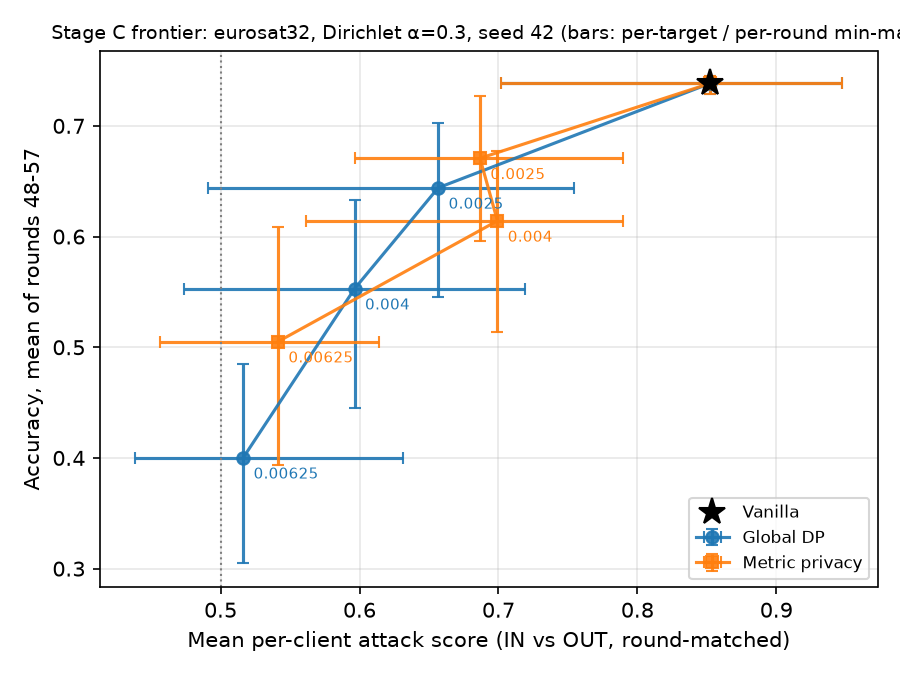
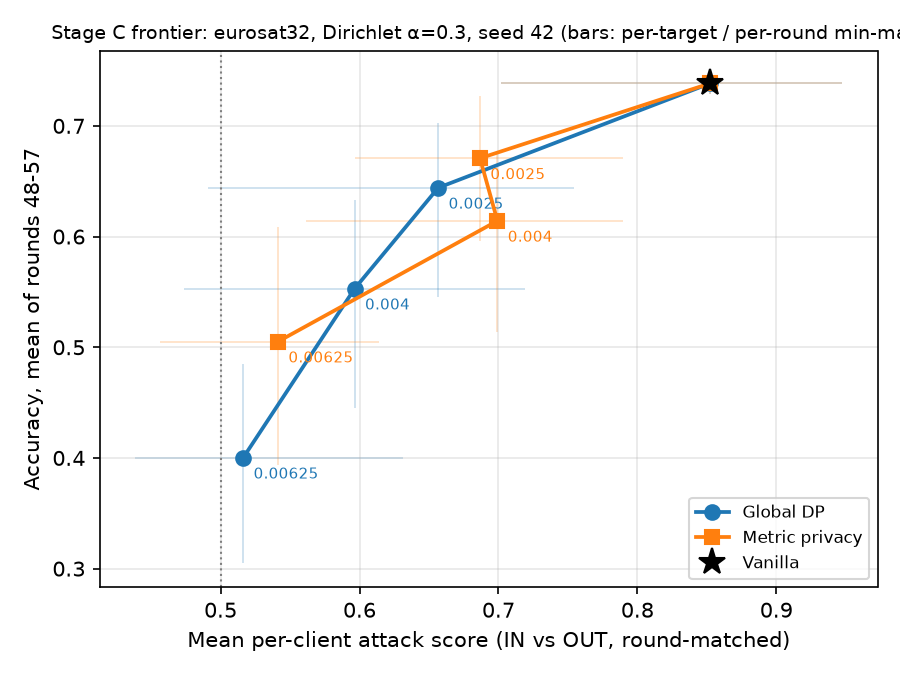
dataset_vs_model: frontier plots with faint error bars, prominent dots

diff --git a/results/cia_frontier/dataset_vs_model/frontier.py b/results/cia_frontier/dataset_vs_model/frontier.py
@@ -75,7 +75,9 @@ def plot(data: dict, root: Path, out: Path | None = None) -> list[Path]:
             xs, ys = [s["mean_score"] for s in line], [s["accuracy"] for s in line]
             err = [[s["mean_score"] - s["min_score"] for s in line], [s["max_score"] - s["mean_score"] for s in line]]
             yerr = [[s["accuracy"] - s["accuracy_min"] for s in line], [s["accuracy_max"] - s["accuracy"] for s in line]]
-            ax.errorbar(xs, ys, xerr=err, yerr=yerr, color=color, marker=marker, capsize=3, lw=1.5, label=label, alpha=0.9)
+            ax.errorbar(xs, ys, xerr=err, yerr=yerr, fmt="none", ecolor=color, elinewidth=0.8, capsize=0,
+                        alpha=0.25, zorder=1)
+            ax.plot(xs, ys, color=color, marker=marker, ms=7, lw=1.8, label=label, zorder=3)
             for s in line[1:]:
                 ax.annotate(f"{s['noise_ratio']:g}", (s["mean_score"], s["accuracy"]), textcoords="offset points",
                             xytext=(5, -10), fontsize=7, color=color)
